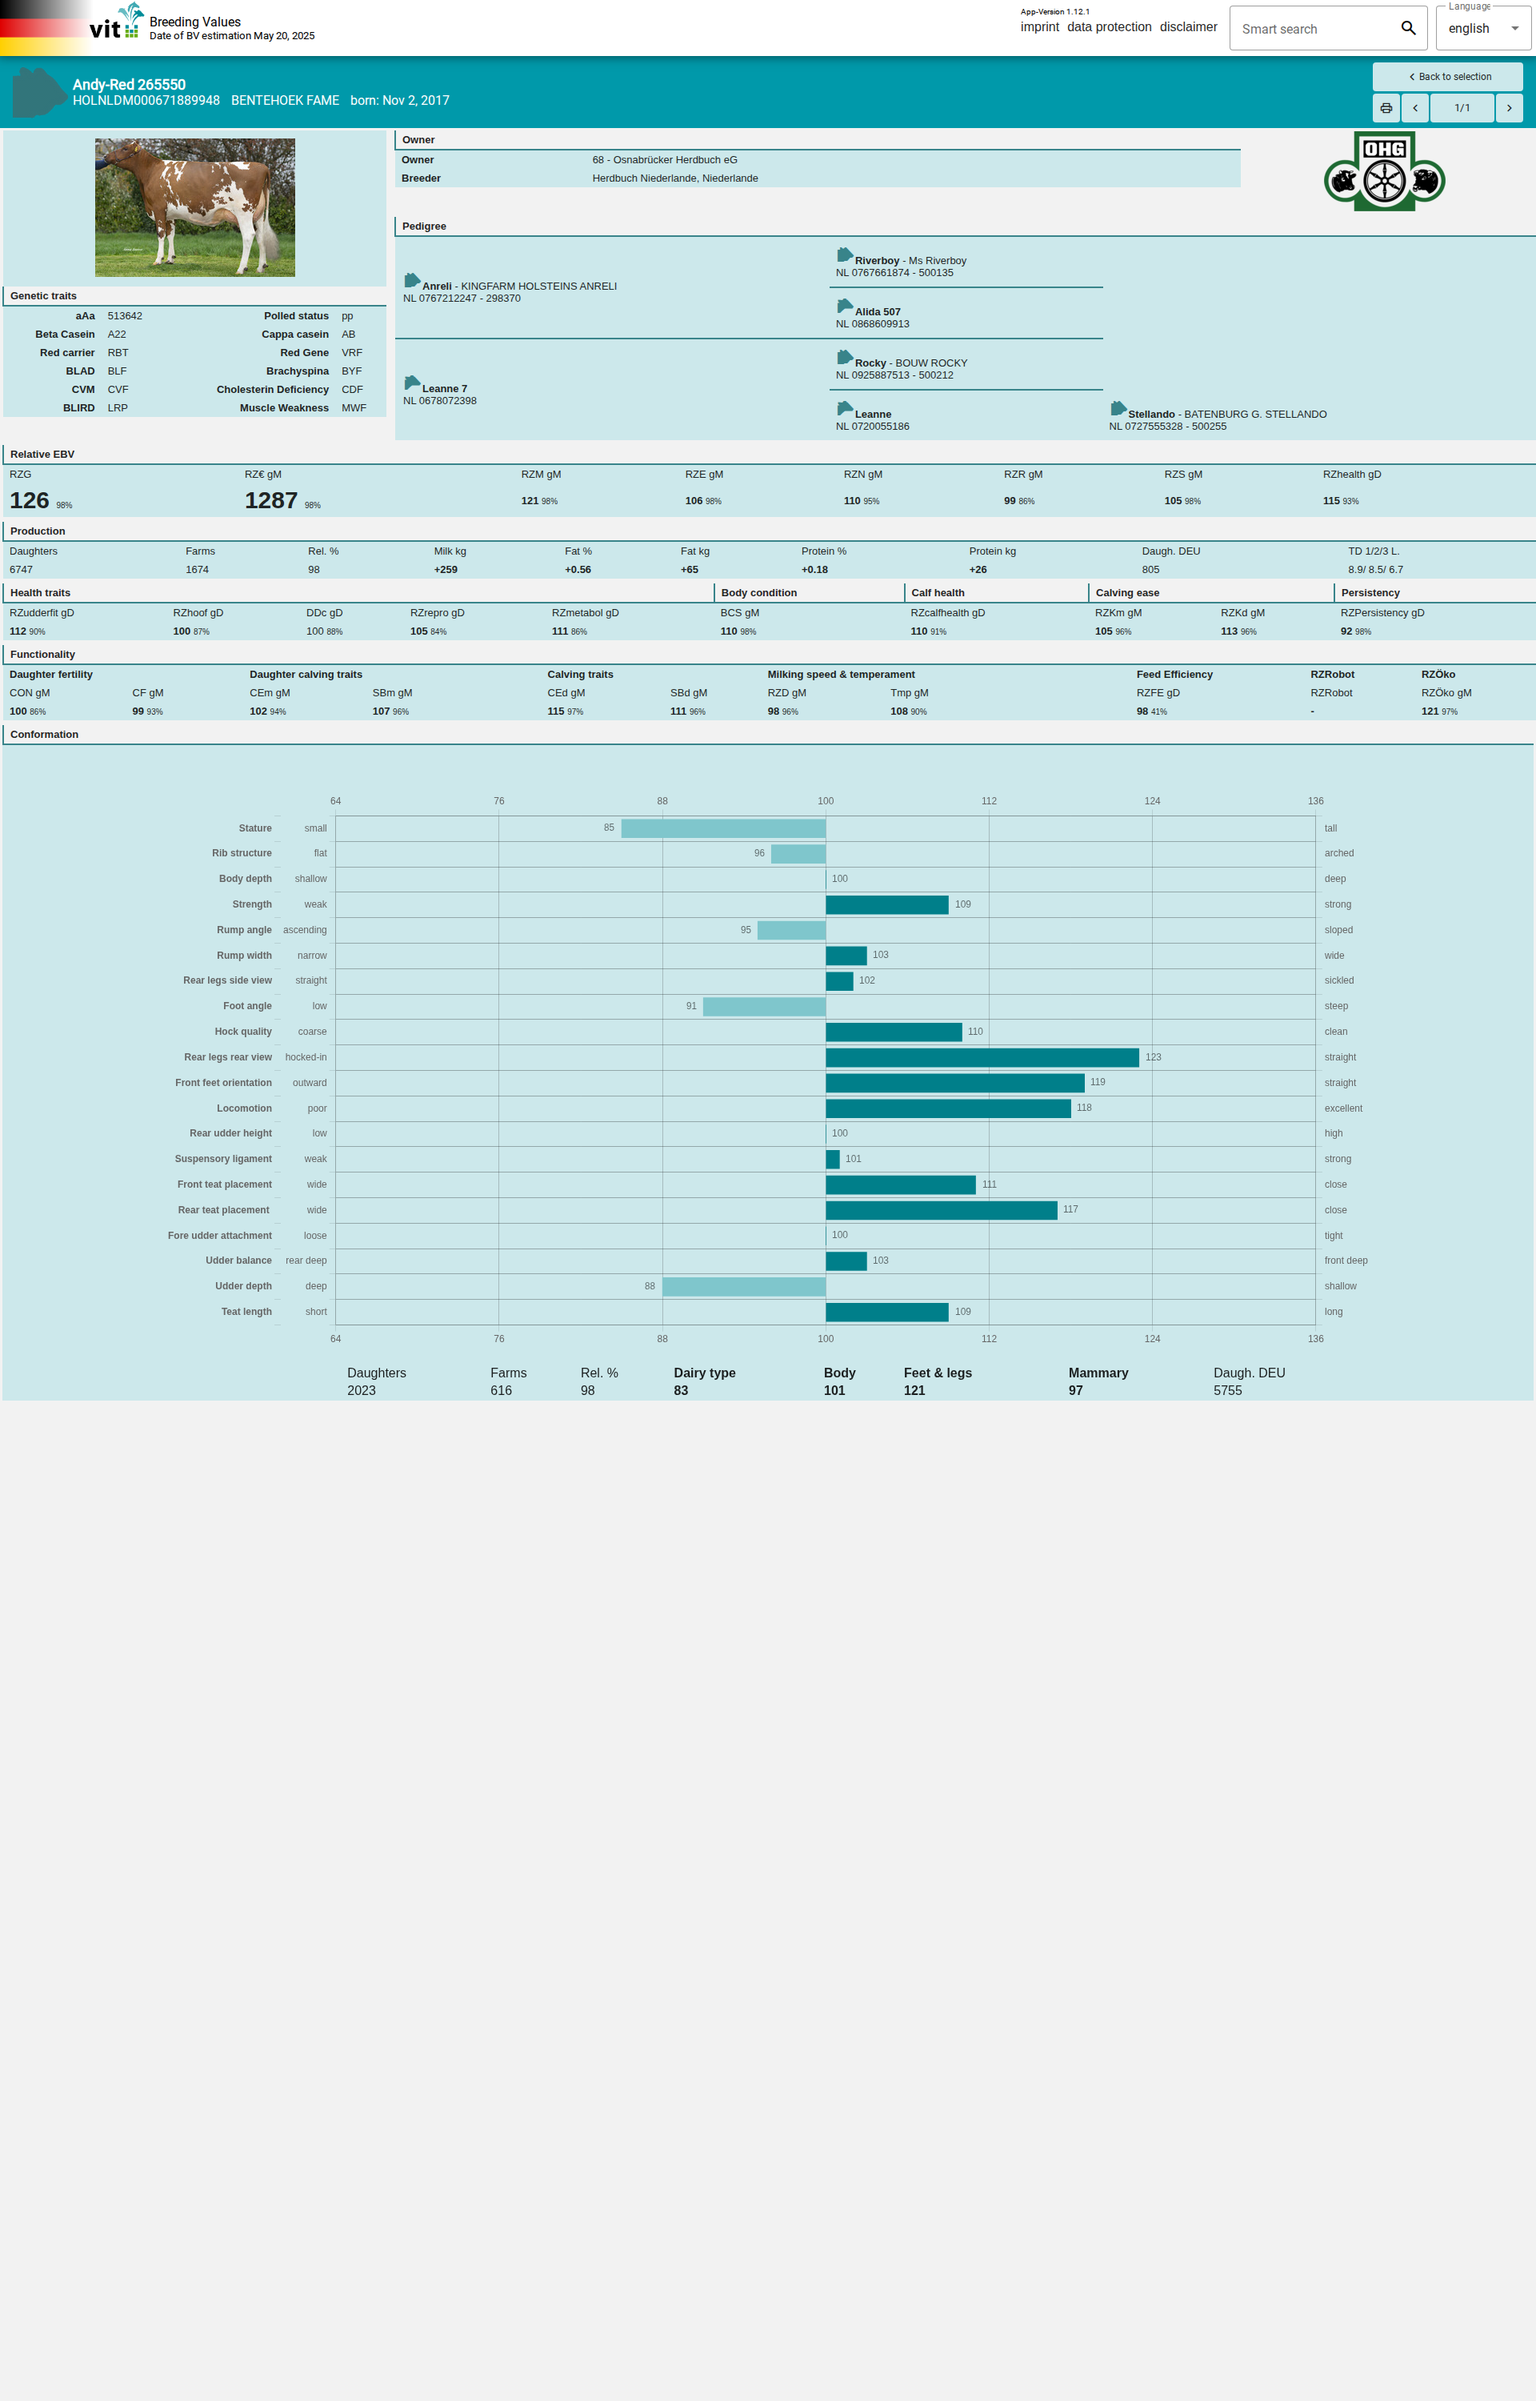
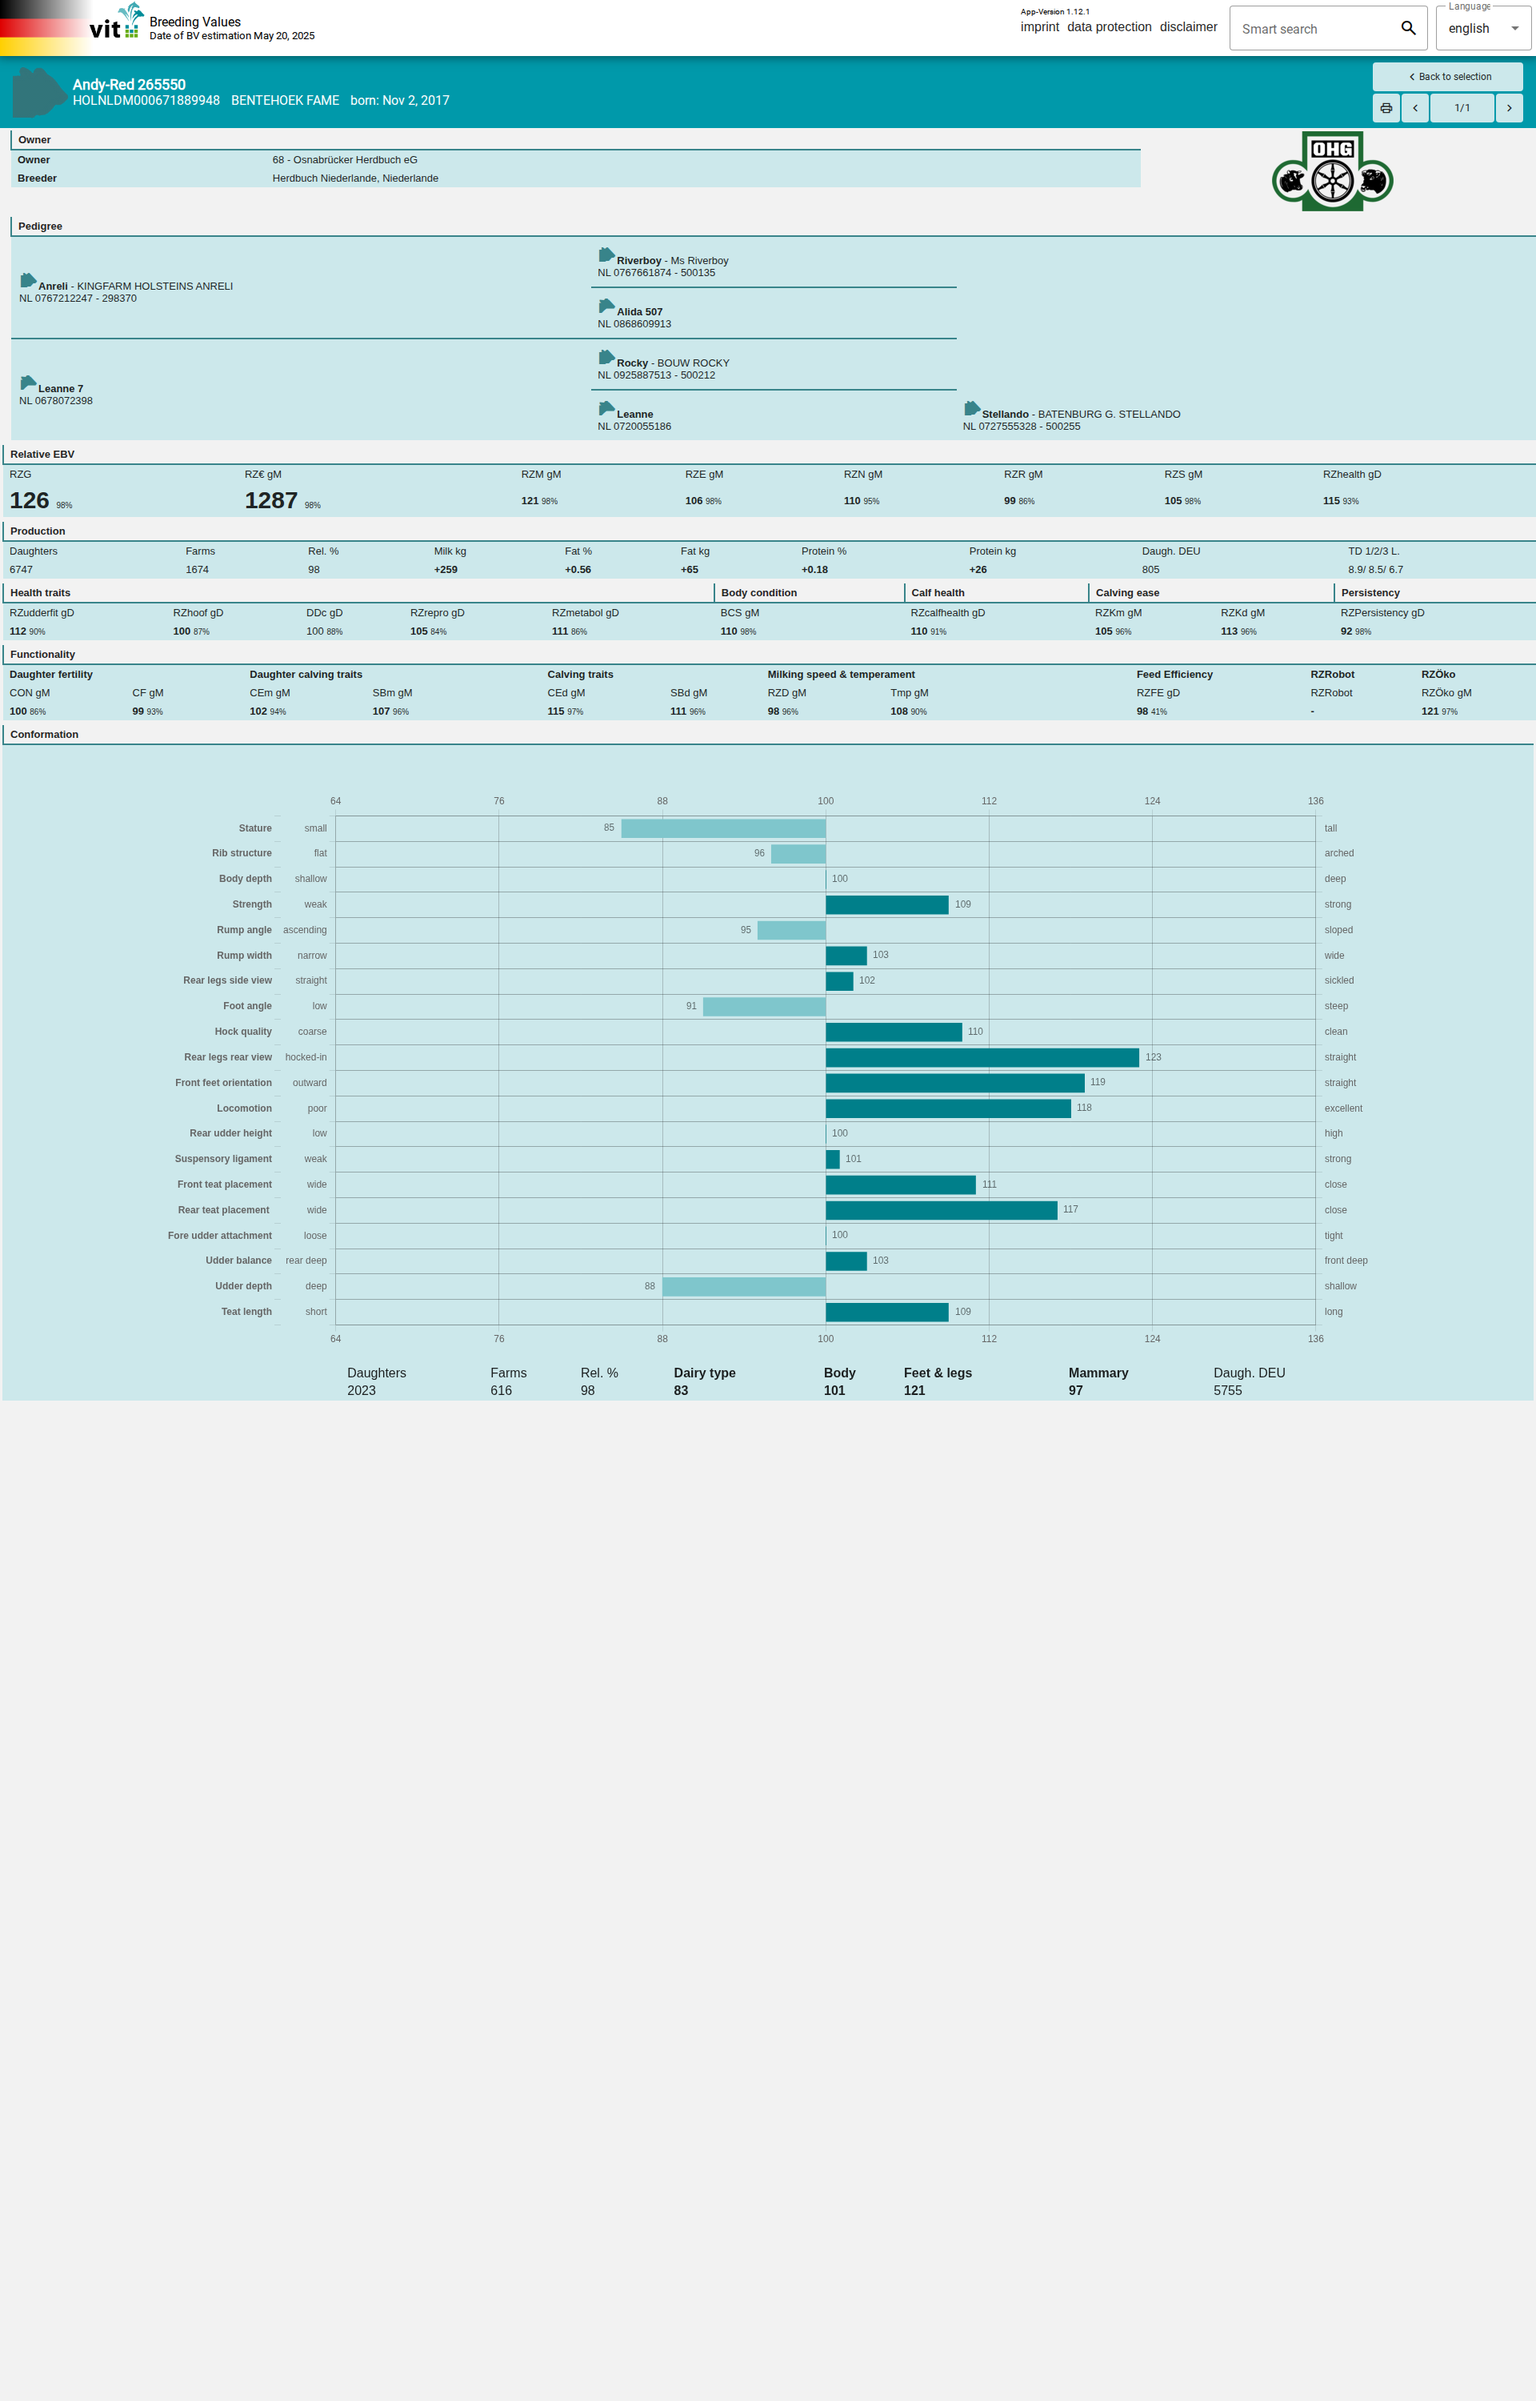
async background tasks and fixing ingestion

diff --git a/main.py b/main.py
@@ -7,6 +7,7 @@ import json
 import re
 import time
 from typing import Dict
+import traceback
 
 app = FastAPI(
     title="Bull Scraper API",
@@ -26,6 +27,13 @@ class ScrapeRequest(BaseModel):
             }
         }
 
+# List of all expected columns (union of both templates)
+def get_expected_columns():
+    with open("data.json") as f1, open("data2.json") as f2:
+        nav_cols = set(json.load(f1).keys())
+        bulli_cols = set(json.load(f2).keys())
+    return sorted(nav_cols | bulli_cols)
+
 def extract_json_from_response(response):
     # Remove markdown code block if present
     match = re.search(r'```(?:json)?\\n(.*?)```', response, re.DOTALL)
@@ -37,31 +45,59 @@ def extract_json_from_response(response):
         return match.group(1).strip()
     return response.strip()
 
+def create_update_comment(merged_result, expected_cols):
+    found_cols = set(merged_result.keys())
+    missing_cols = [col for col in expected_cols if col not in found_cols]
+    update_comment = ""
+    if missing_cols:
+        update_comment += "The following columns are missing in the merged result: " + ", ".join(missing_cols) + ". "
+    else:
+        update_comment += "All expected columns are present in the merged result. "
+    null_cols = [col for col in expected_cols if merged_result.get(col) is None]
+    if null_cols:
+        update_comment += f"Columns {', '.join(null_cols)} contain null values."
+    else:
+        update_comment += "No columns contain null values."
+    return update_comment
+
 async def scrape_and_store_data(nav_url: str, bulli_url: str):
+    print(f"[LOG] Starting scrape_and_store_data for NAV: {nav_url}, Bulli: {bulli_url}")
     # NAV page
     nav_scraper = NAVScraper(template_path="data.json")
+    print("[LOG] Fetching NAV HTML...")
     nav_html = nav_scraper.fetch_html(nav_url)
+    print("[LOG] Extracting NAV content...")
     nav_content = nav_scraper.extract_content(nav_html)
+    print("[LOG] Loading NAV JSON template...")
     nav_json_template = nav_scraper.load_json_template()
+    print("[LOG] Asking GPT-4o for NAV data...")
     nav_result = nav_scraper.ask_gpt4o(nav_content, nav_json_template)
     cleaned_nav_result = extract_json_from_response(nav_result)
     try:
+        print("[LOG] Parsing NAV JSON result...")
         nav_result_dict = json.loads(cleaned_nav_result)
     except Exception as e:
         print("Error parsing NAV JSON:", e)
+        traceback.print_exc()
         nav_result_dict = {}
     
     # Bulli page (screenshot + vision)
     bulli_scraper = BULScraper(template_path="data2.json")
+    print("[LOG] Sleeping 5 seconds before Bulli scrape...")
     time.sleep(5)
+    print("[LOG] Taking Bulli screenshot...")
     screenshot_path = await bulli_scraper.take_screenshot(bulli_url)  # Add await here
+    print(f"[LOG] Screenshot saved to {screenshot_path}")
     bulli_json_template = bulli_scraper.load_json_template()
+    print("[LOG] Asking GPT-4o with Bulli image...")
     bulli_result = bulli_scraper.ask_gpt4o_with_image(screenshot_path, bulli_json_template)
     cleaned_bulli_result = extract_json_from_response(bulli_result)
     try:
+        print("[LOG] Parsing Bulli JSON result...")
         bulli_result_dict = json.loads(cleaned_bulli_result)
     except Exception as e:
         print("Error parsing Bulli JSON:", e)
+        traceback.print_exc()
         bulli_result_dict = {}
 
     # Changing 'aAa' to 'aaa' due to postgres column name constraints
@@ -69,8 +105,14 @@ async def scrape_and_store_data(nav_url: str, bulli_url: str):
         bulli_result_dict['aaa'] = bulli_result_dict.pop('aAa')
 
     # MERGING DICTIONARIES
+    print("[LOG] Merging NAV and Bulli results...")
     merged_result = {**nav_result_dict, **bulli_result_dict}
+    # Create and append update_comment
+    print("[LOG] Creating update_comment...")
+    merged_result["update_comment"] = create_update_comment(merged_result, get_expected_columns())
+    print("[LOG] Upserting merged result to Supabase...")
     upsert_bullz_row(merged_result)
+    print("[LOG] Upsert complete. Returning merged result.")
     return merged_result
 
 @app.get("/")

diff --git a/BULscraper.py b/BULscraper.py
@@ -2,6 +2,8 @@ import os
 import openai
 import json
 from playwright.async_api import async_playwright
+import asyncio
+import os
 
 class BULScraper:
     def __init__(self, openai_api_key=None, template_path="data2.json"):
@@ -11,19 +13,28 @@ class BULScraper:
 
     async def take_screenshot(self, url):  # Make this method async
         async with async_playwright() as p:
-            browser = await p.chromium.launch()
-            page = await browser.new_page()
+
+            browser = await p.chromium.launch(headless=True)
+
+            # Set a large viewport height to help capture long pages
+            page = await browser.new_page(viewport={"width": 1920, "height": 3000})
             await page.goto(url)
-            await page.wait_for_timeout(5000)
+            await asyncio.sleep(6)  # Wait for JS to render
+            # Scroll to the bottom to trigger lazy loading
+            await page.evaluate("window.scrollTo(0, document.body.scrollHeight)")
+            await asyncio.sleep(2)  # Wait for any lazy-loaded content
+            # Optionally, scroll back to top for completeness
+            await page.evaluate("window.scrollTo(0, 0)")
+            # Take the full page screenshot
             screenshot_path = "screenshot.png"
-            await page.screenshot(path=screenshot_path)
+            await page.screenshot(path=screenshot_path, full_page=True)
             await browser.close()
             return screenshot_path
 
     def ask_gpt4o_with_image(self, image_path, json_template):
         prompt = f"""
 You are an information extraction assistant. Extract the following fields from the attached screenshot of a bull's profile page. Respond ONLY with a valid JSON object in this format (fill in the values, leave as null if not found):
-Be as specific as possible and try to fill all specified fields as well as you can.
+Be as specific as possible and try to fill all specified fields as well as you can. Never return percentage signs or other symbols.
 {json.dumps(json_template, indent=2)}
 """
         with open(image_path, "rb") as img_file:
@@ -49,9 +60,10 @@ Be as specific as possible and try to fill all specified fields as well as you c
             return json.load(f)
 
 if __name__ == "__main__":
+    import asyncio
     url = "https://bulli.vit.de/home/details/528000671889948"
     scraper = BULScraper()
-    screenshot_path = scraper.take_screenshot(url)
+    screenshot_path = asyncio.run(scraper.take_screenshot(url))
     json_template = scraper.load_json_template()
     result = scraper.ask_gpt4o_with_image(screenshot_path, json_template)
     print(result)

diff --git a/db_utils.py b/db_utils.py
@@ -10,6 +10,7 @@ load_dotenv()
 SUPABASE_URL = os.environ.get("SUPABASE_URL")
 SUPABASE_ANON_KEY = os.environ.get("SUPABASE_ANON_KEY")
 
+### Main upsert function for Bullz table ###
 def upsert_bullz_row(data):
     url = f"{SUPABASE_URL}/rest/v1/Bullz"
     headers = {
@@ -35,5 +36,3 @@ if __name__ == "__main__":
         # Add any other columns you want to set/update
     }
     upsert_bullz_row(data)
-
-
